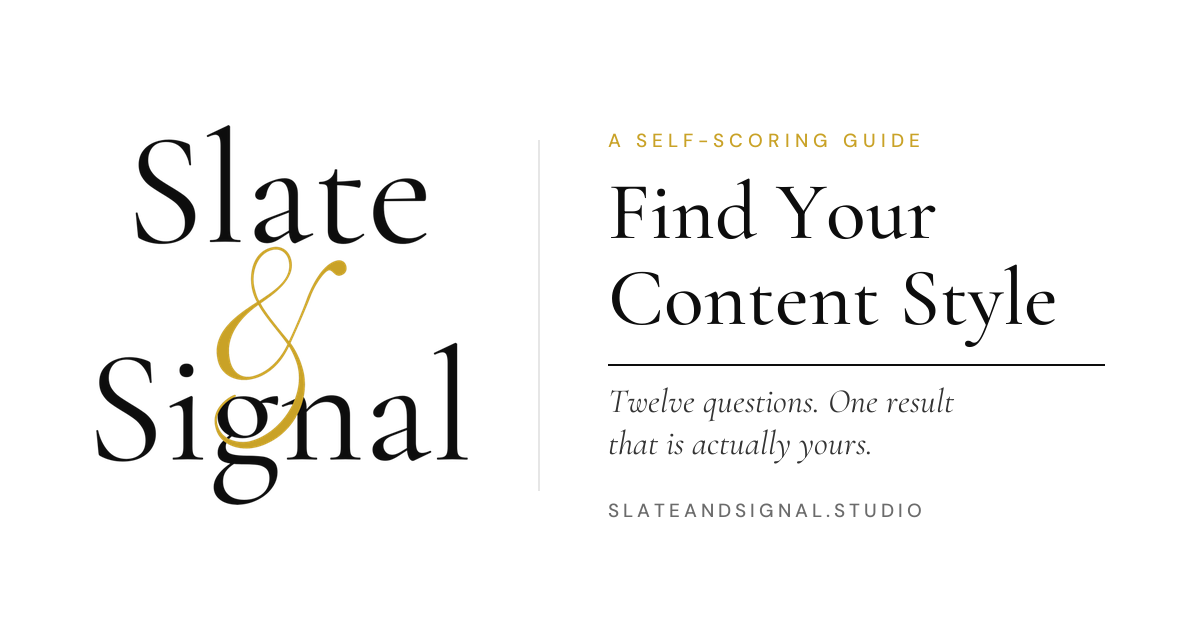
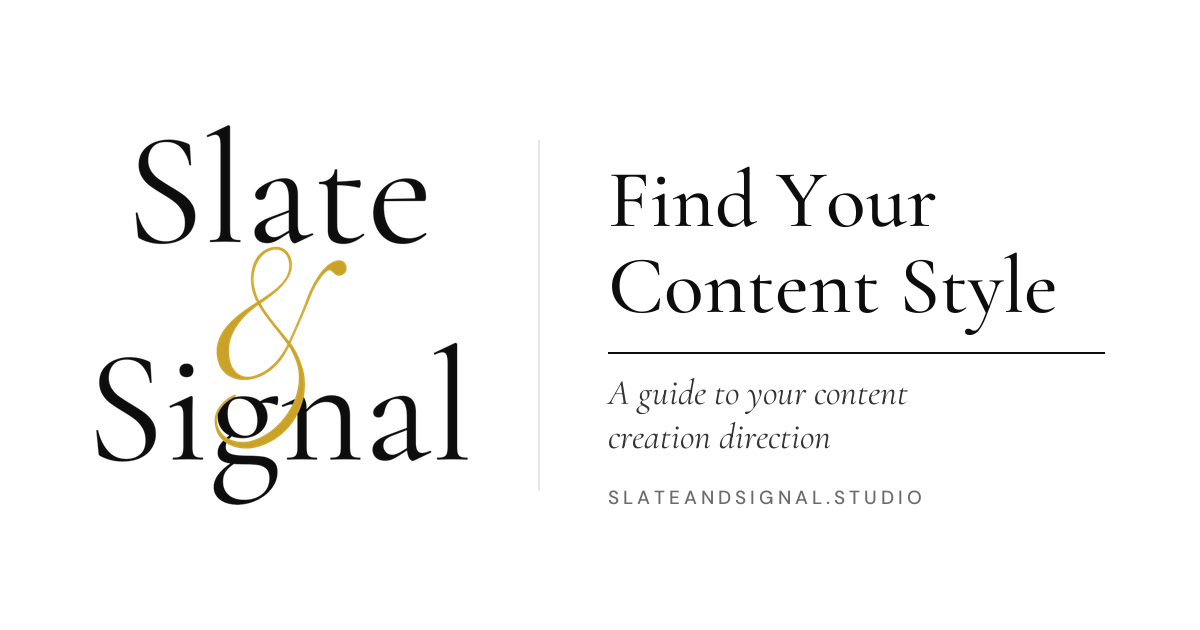
Content Style quiz: Erin Hanson quote, Raquel's explanation, clearer link card

diff --git a/content-style/index.html b/content-style/index.html
@@ -9,12 +9,12 @@
 <link rel="canonical" href="https://slateandsignal.studio/content-style/">
 <meta property="og:type" content="website">
 <meta property="og:title" content="Find Your Content Style | Slate &amp; Signal">
-<meta property="og:description" content="Twelve questions. One result that is actually yours.">
+<meta property="og:description" content="A guide to your content creation direction.">
 <meta property="og:url" content="https://slateandsignal.studio/content-style/">
 <meta property="og:image" content="https://slateandsignal.studio/images/content-style-share.png">
 <meta property="og:image:width" content="1200">
 <meta property="og:image:height" content="630">
-<meta property="og:image:alt" content="Find Your Content Style, a self-scoring guide from Slate &amp; Signal">
+<meta property="og:image:alt" content="Find Your Content Style, a guide to your content creation direction from Slate &amp; Signal">
 <meta name="twitter:card" content="summary_large_image">
 <meta name="twitter:image" content="https://slateandsignal.studio/images/content-style-share.png">
 <link rel="preconnect" href="https://fonts.googleapis.com">
@@ -51,6 +51,9 @@
   p{font-size:16px;margin-bottom:16px;color:#2A2A2A;}
   .dek{font-family:var(--serif);font-style:italic;font-size:21px;line-height:1.45;color:#333;margin-bottom:34px;}
   .small{font-size:13px;color:var(--muted);}
+  .quote{margin:6px 0 40px;padding:26px 0 24px;border-top:1px solid var(--rule);border-bottom:1px solid var(--rule);text-align:center;}
+  .quote p{font-family:var(--serif);font-style:italic;font-size:26px;line-height:1.35;color:var(--black);margin:0 0 12px;}
+  .quote cite{font-style:normal;font-size:10.5px;letter-spacing:.3em;text-transform:uppercase;color:var(--gold-deep);font-weight:500;}
 
   .steps{list-style:none;border-top:1px solid var(--black);margin:28px 0 36px;}
   .steps li{display:flex;gap:18px;padding:14px 0;border-bottom:1px solid var(--rule);font-size:15px;}
@@ -138,7 +141,7 @@
       <a class="brand" href="/">Slate &amp; Signal</a>
       <div class="brand-tag">Clarity reveals &middot; Strategy amplifies</div>
     </div>
-    <div class="mast-right" id="mastRight"><strong>Content Style</strong>A self-scoring guide</div>
+    <div class="mast-right" id="mastRight"><strong>Content Style</strong>A guide to your content creation direction</div>
   </header>
   <div id="app"></div>
   <div class="foot">Slate &amp; Signal &middot; slateandsignal.studio</div>
@@ -299,10 +302,14 @@ function render(html){ app.innerHTML = '<div class="screen">'+html+'</div>'; win
 /* ---------- screens ---------- */
 function intro(){
   render(
-    '<div class="label">A self-scoring guide</div>'+
+    '<div class="label">A guide to your content creation direction</div>'+
     '<h1>Find Your Content Style</h1>'+
-    '<p class="dek">The way you naturally communicate, the content formats that may fit you best, and how to use them for what you’re building.</p>'+
-    '<p>There are plenty of ways to create content. You do not need to be good at all of them.</p>'+
+    '<blockquote class="quote"><p>‘What if I fall?’<br>Oh but my darling,<br>what if you fly?</p><cite>Erin Hanson</cite></blockquote>'+
+    '<div class="label">What this does</div>'+
+    '<p>There is no one way to do this. What worked for someone else may not be organic to you or the way you naturally present yourself to others.</p>'+
+    '<p>This guide looks at how you already communicate and what your brand goal is, then matches that to content formats that suit you.</p>'+
+    '<p>The result is a content style that is likely to fit you naturally, along with formats that make sense for the way you communicate and how visible you want to be.</p>'+
+    '<p>Knowing this part of your brand direction gives you a solid place to start, so you can spend less time cycling through content styles.</p>'+
     '<ol class="steps">'+
       '<li><span>1</span>How you naturally communicate</li>'+
       '<li><span>2</span>Which content formats fit that style</li>'+
